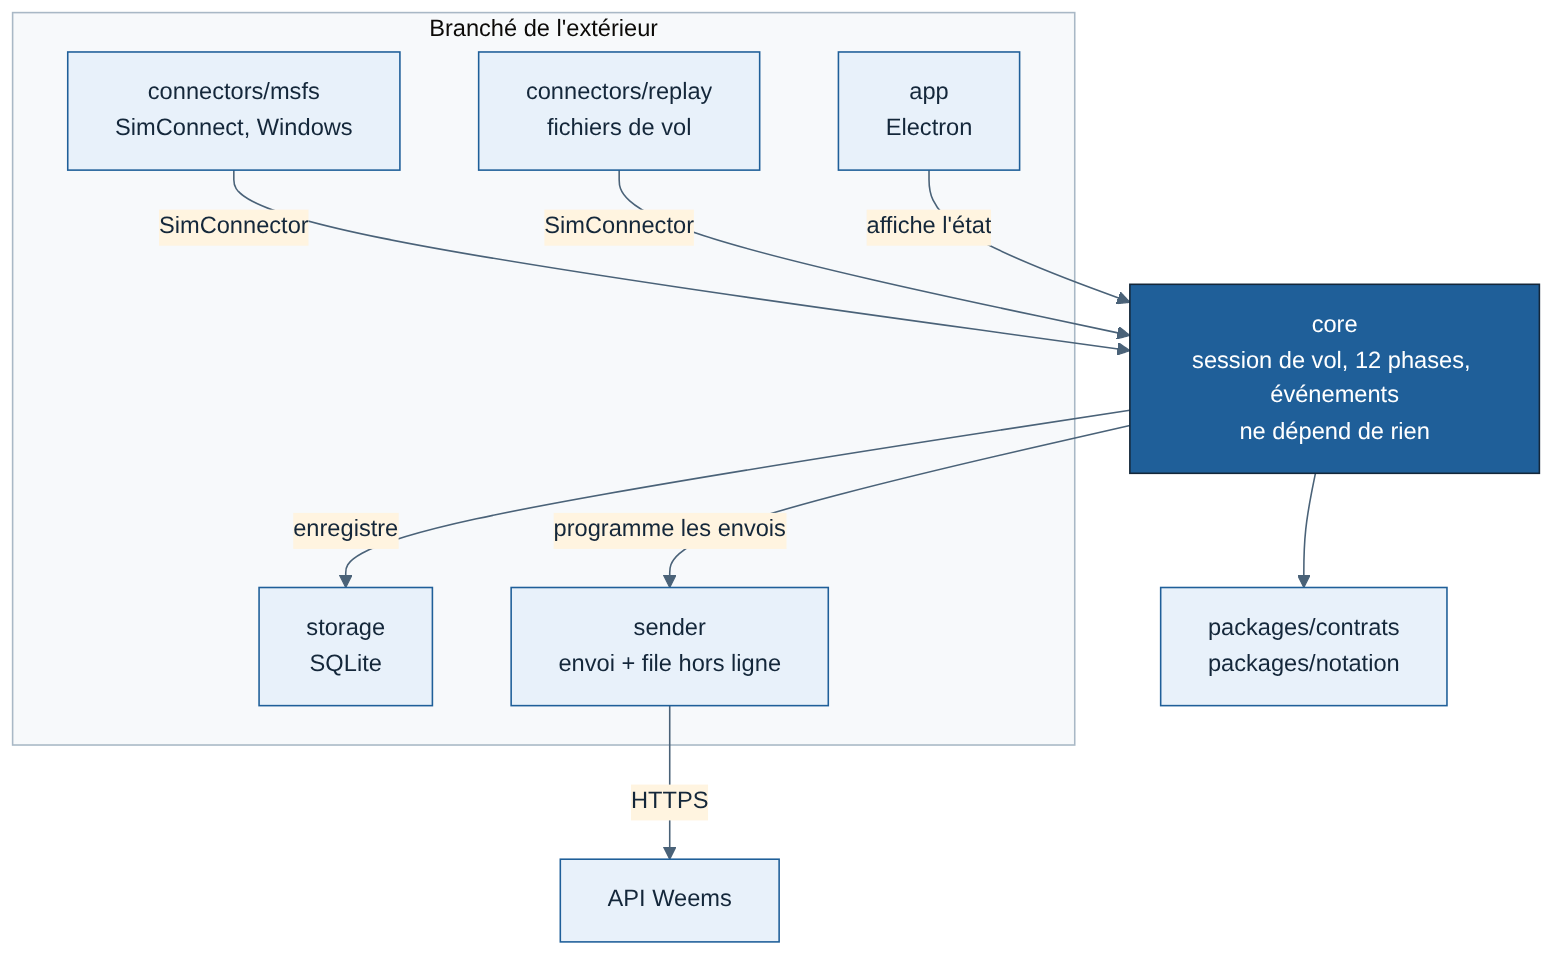
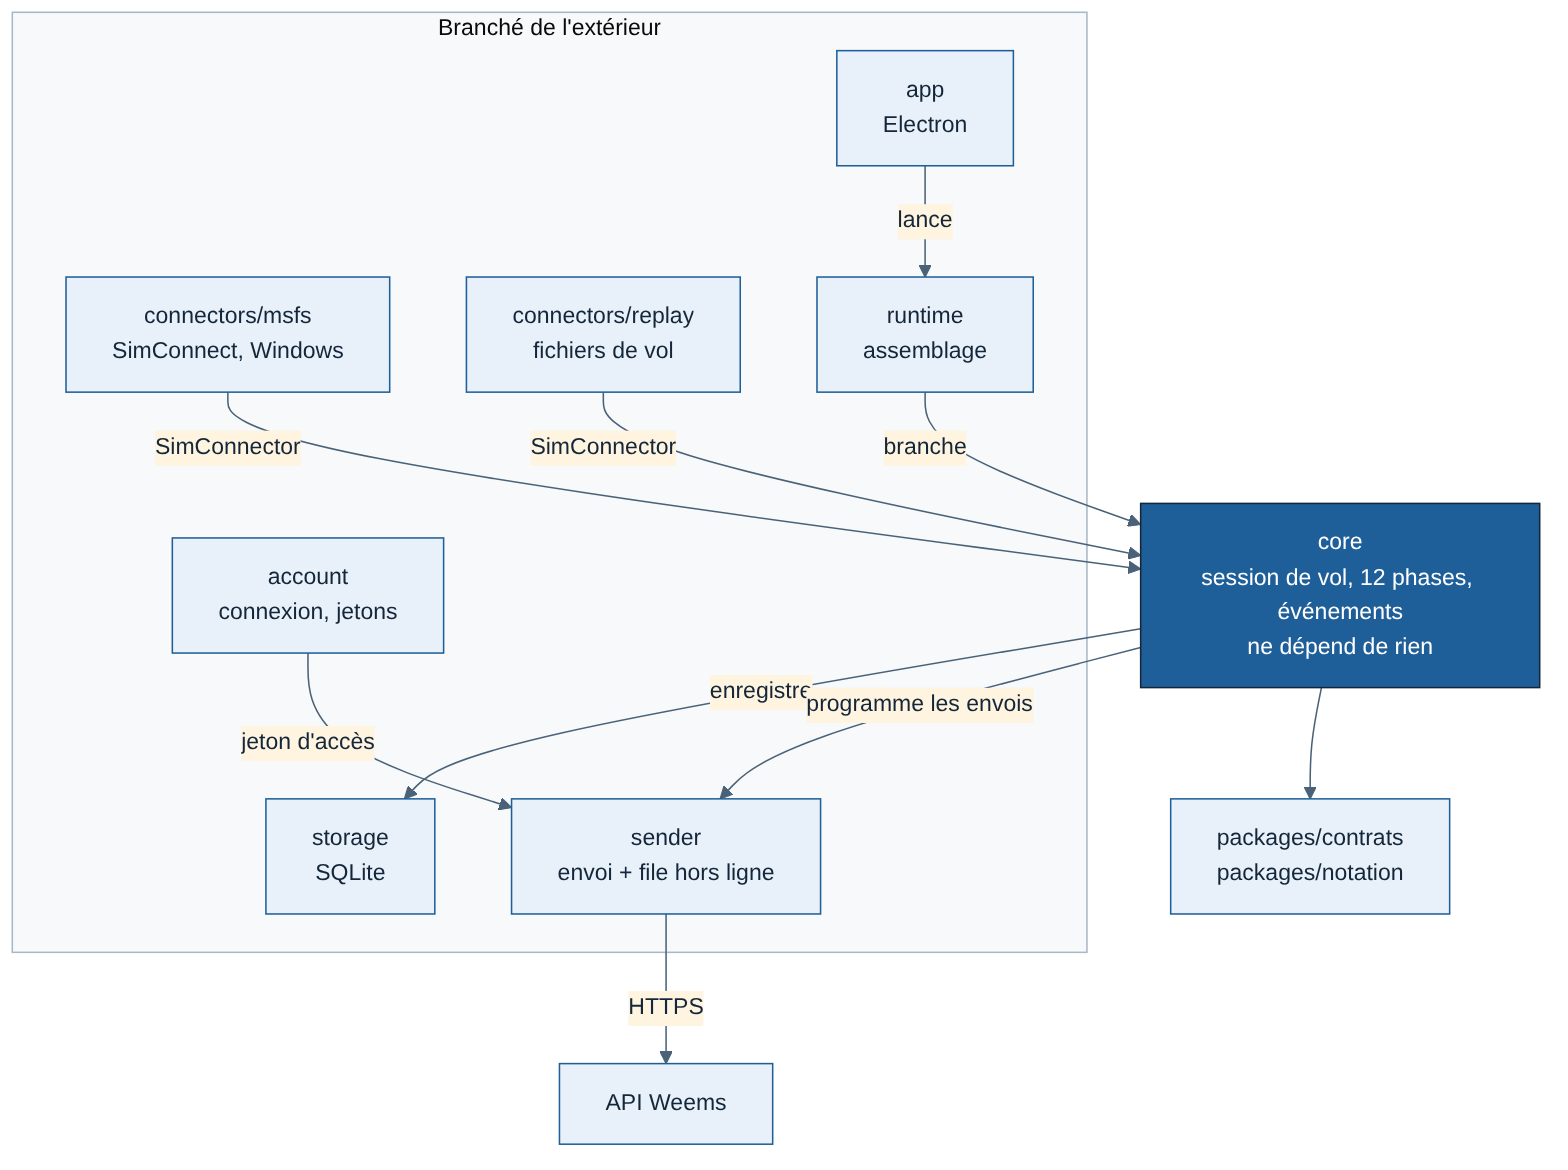
docs(tracker): architecture interne à jour (runtime/, account/, fly/, règle vérifiée par dependency-cruiser)
Claude-Session: https://claude.ai/code/session_01N46qzWzWcy6mV233yzvu8B

diff --git a/docs/cahiers-des-charges/tracker/architecture-interne.md b/docs/cahiers-des-charges/tracker/architecture-interne.md
@@ -14,7 +14,7 @@ Rédigée le 11/11/2026. Complète le [cahier des charges](CDC-Tracker.md) (exig
 
 ```
 packages/contrats/        formats Sample, AircraftInfo, SimEvent, Touchdown, messages de l'API (Zod)
-packages/notation/        règles et calcul de la note (partagé avec l'API)
+packages/notation/        règles et calcul de la note (partagé avec l'API) : à créer, attend les critères (point 4 de la spec T0)
 
 apps/tracker/
   src/core/               cœur : session de vol, machine à états des phases, détection d'événements
@@ -23,18 +23,21 @@ apps/tracker/
     replay/               rejeu de fichiers de vol (J1 et tous les tests)
   src/storage/            enregistreur local SQLite
   src/sender/             envoi à l'API et file d'attente hors ligne
-  src/app/                application Electron : fenêtre, icône, connexion au compte
+  src/runtime/            assemblage connecteur → cœur → enregistreur → envoi (partagé par l'app, simulate et fly)
+  src/account/            compte du pilote : connexion OAuth avec PKCE, jetons chiffrés, renouvellement
+  src/app/                application Electron : fenêtre, icône, état
   tools/
     simulate/             lance N cœurs sans interface (J1)
+    fly/                  tracker sans interface sur le PC Windows (J2)
     generate-flights/     générateur de vols synthétiques
-    import/               conversion des vols A32NX (.fdr) et Sky Dolly vers le format de rejeu
+    import/               prévu : conversion des vols A32NX (.fdr) et Sky Dolly vers le format de rejeu
 ```
 
 ![Modules du tracker : le cœur au centre, tout le reste branché](../../schemas/img/tracker-modules.png)
 
 | Règle | Pourquoi |
 | --- | --- |
-| `core/` n'importe rien de `connectors/`, `storage/`, `sender/` ni `app/` | Le cœur reste testable seul ; vérifié automatiquement par une règle ESLint |
+| `core/` n'importe rien du reste du tracker (`connectors/`, `storage/`, `sender/`, `runtime/`, `account/`, `app/`, `tools/`) | Le cœur reste testable seul ; vérifié automatiquement par dependency-cruiser (`pnpm structure`) |
 | `core/` reçoit l'horloge de l'extérieur | Le rejeu peut accélérer le temps (×10) sans fausser les durées |
 | Seul `connectors/msfs/` peut dépendre de Windows | Tout le reste tourne sur Mac |
 
